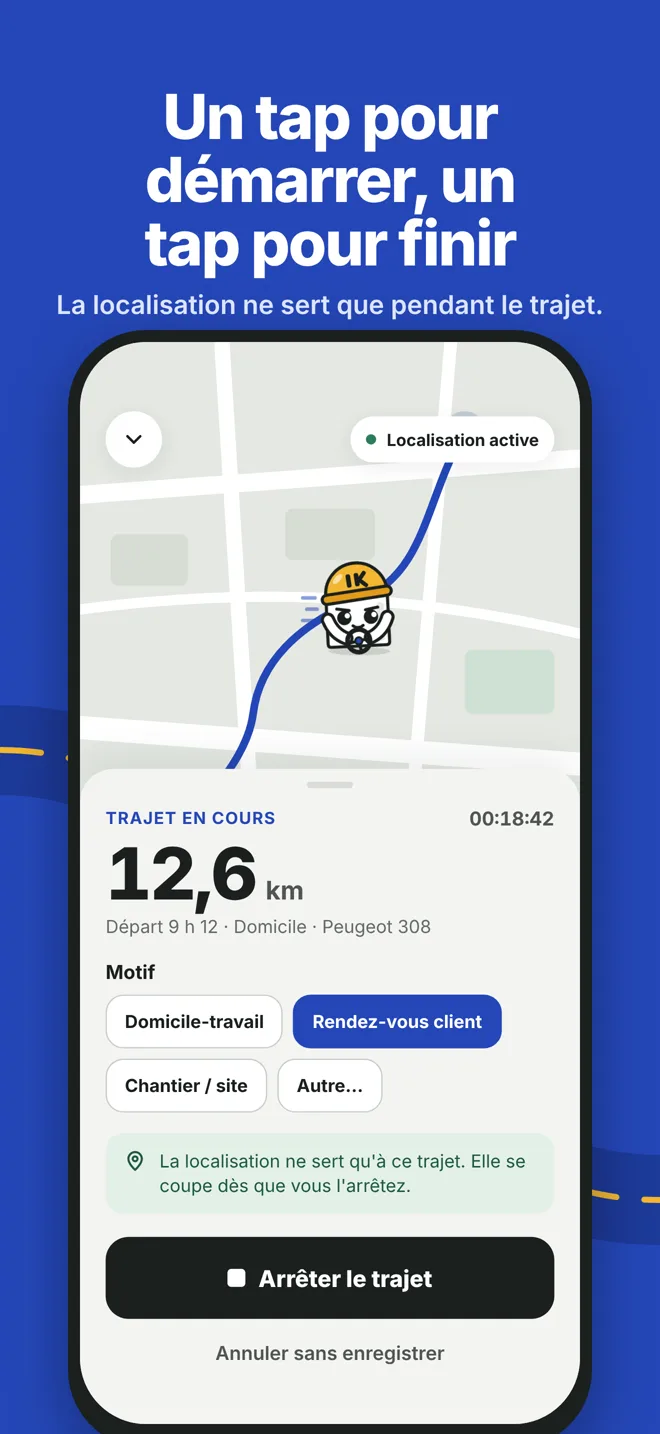
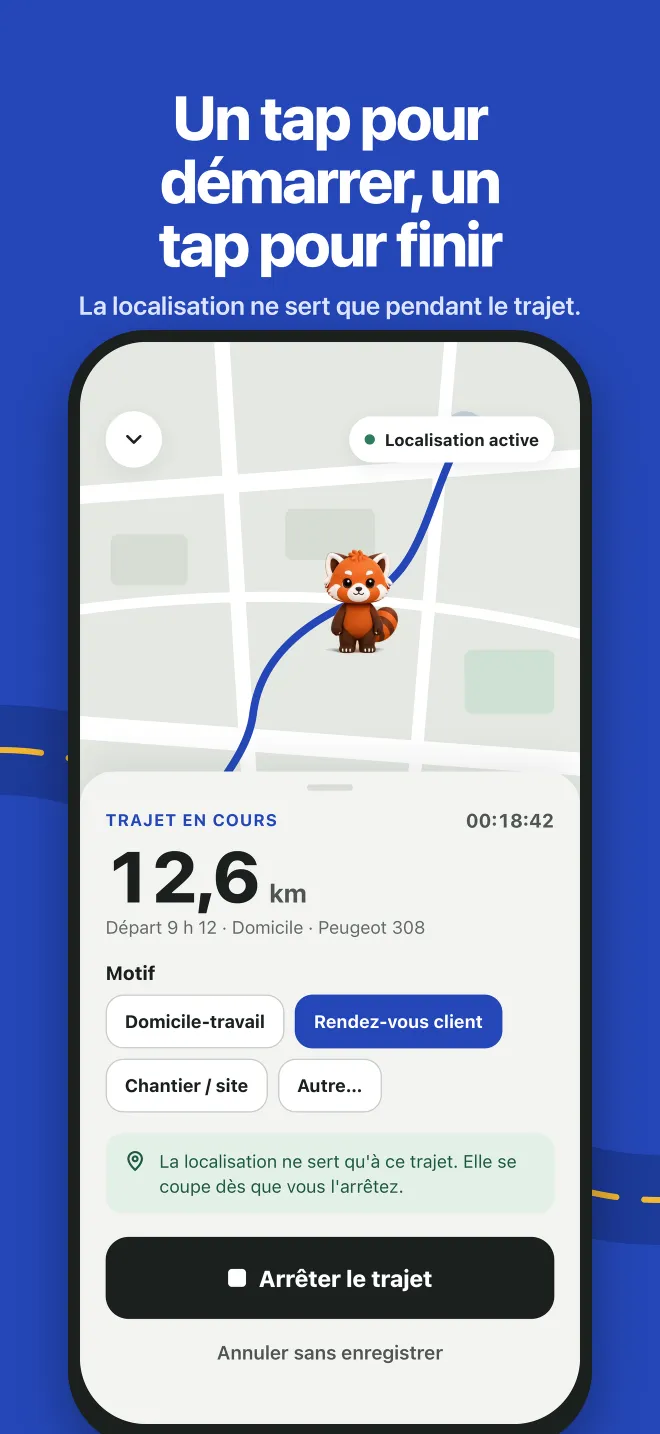
Update the IK screenshots to Kilo the red panda

diff --git a/ik/index.html b/ik/index.html
@@ -41,11 +41,11 @@
 <p class="lead">Un geste pour démarrer, un geste pour arrêter. IK calcule le montant déductible de vos trajets et prépare le PDF pour votre déclaration.</p>
 <div class="app-hero__cta"><a class="btn-appstore" href="https://apps.apple.com/app/id6820927370"><svg width="22" height="22" viewBox="0 0 24 24" fill="none" aria-hidden="true"><path d="M12 3v12m0 0l-5-5m5 5l5-5M5 20h14" stroke="currentColor" stroke-width="1.8" stroke-linecap="round" stroke-linejoin="round"/></svg><span><small>Télécharger dans</small><strong>l’App Store</strong></span></a><span class="app-hero__price">Gratuit au téléchargement · abonnement · pour les salariés aux frais réels et les indépendants en BNC</span></div>
 </div>
-<figure class="device"><img src="/assets/site/img/fr/ik_1-bareme-officiel.webp" alt="Vos trajets pros au barème officiel" width="660" height="1434" fetchpriority="high"></figure>
+<figure class="device"><img src="/assets/site/img/fr/ik_1-bareme-officiel.webp" alt="Indemnités kilométriques : vos trajets pros au barème officiel" width="660" height="1434" fetchpriority="high"></figure>
 </section>
 <section class="sect" style="padding-top:0;overflow:hidden" aria-labelledby="shots-t"><div class="wrap">
 <div class="sect-head" style="margin-bottom:28px"><h2 id="shots-t" class="h3" style="font-size:clamp(28px,3vw,40px)">IK en images</h2><p class="muted" style="margin:0;font-size:15px">Faites défiler les captures de l’App Store</p></div>
-<ul class="shots"><li><img src="/assets/site/img/fr/ik_1-bareme-officiel.webp" alt="Vos trajets pros au barème officiel" width="660" height="1434" loading="lazy"></li><li><img src="/assets/site/img/fr/ik_2-un-tap.webp" alt="Un trajet en un tap" width="660" height="1434" loading="lazy"></li><li><img src="/assets/site/img/fr/ik_3-jusqua-4251.webp" alt="Jusqu’à 4 251 € déductibles (exemple 5 CV, 8 000 km)" width="660" height="1434" loading="lazy"></li><li><img src="/assets/site/img/fr/ik_4-pdf-impots.webp" alt="PDF prêt pour les impôts" width="660" height="1434" loading="lazy"></li><li><img src="/assets/site/img/fr/ik_5-vehicules.webp" alt="Plusieurs véhicules" width="660" height="1434" loading="lazy"></li><li><img src="/assets/site/img/fr/ik_6-alerte-40km.webp" alt="Alerte au-delà de 40 km" width="660" height="1434" loading="lazy"></li></ul>
+<ul class="shots"><li><img src="/assets/site/img/fr/ik_1-bareme-officiel.webp" alt="Indemnités kilométriques : vos trajets pros au barème officiel" width="660" height="1434" loading="lazy"></li><li><img src="/assets/site/img/fr/ik_2-un-tap.webp" alt="Un trajet en un tap" width="660" height="1434" loading="lazy"></li><li><img src="/assets/site/img/fr/ik_3-jusqua-4251.webp" alt="Jusqu’à 4 251 € déductibles (exemple 5 CV, 8 000 km)" width="660" height="1434" loading="lazy"></li><li><img src="/assets/site/img/fr/ik_4-pdf-impots.webp" alt="PDF prêt pour les impôts" width="660" height="1434" loading="lazy"></li><li><img src="/assets/site/img/fr/ik_5-vehicules.webp" alt="Plusieurs véhicules" width="660" height="1434" loading="lazy"></li><li><img src="/assets/site/img/fr/ik_6-alerte-40km.webp" alt="Alerte au-delà de 40 km" width="660" height="1434" loading="lazy"></li></ul>
 </div></section>
 <section id="features" class="sect sect--paper" aria-labelledby="feat-t"><div class="wrap">
 <p class="eyebrow">Fonctionnalités</p>

diff --git a/_build/content_apps.py b/_build/content_apps.py
@@ -160,7 +160,7 @@ APPS = {
      h1='Vos trajets pros, au barème officiel.',
      lead='Un geste pour démarrer, un geste pour arrêter. IK calcule le montant déductible de vos trajets et prépare le PDF pour votre déclaration.',
      price_line='Gratuit au téléchargement · abonnement · pour les salariés aux frais réels et les indépendants en BNC',
-     shot_alts=['Vos trajets pros au barème officiel', 'Un trajet en un tap', 'Jusqu’à 4 251 € déductibles (exemple 5 CV, 8 000 km)', 'PDF prêt pour les impôts', 'Plusieurs véhicules', 'Alerte au-delà de 40 km'],
+     shot_alts=['Indemnités kilométriques : vos trajets pros au barème officiel', 'Un trajet en un tap', 'Jusqu’à 4 251 € déductibles (exemple 5 CV, 8 000 km)', 'PDF prêt pour les impôts', 'Plusieurs véhicules', 'Alerte au-delà de 40 km'],
      feat_title='Vos frais kilométriques, sans tableur.',
      features=[('Suivi GPS d’un geste', 'Démarrez et arrêtez un trajet en un tap. La localisation ne sert que pendant le trajet en cours.'), ('Favoris et saisie rapide', 'Vos trajets habituels en un toucher ; saisie manuelle avec suggestions d’adresses et calcul de distance.'), ('Barème officiel', 'Montant calculé par véhicule et sur le cumul annuel, thermique ou 100 % électrique.'), ('Règle des 40 km', 'Au-delà de 40 km domicile-travail, justifiez la distance ou retenez 40 km.'), ('Export PDF', 'Récapitulatif annuel par véhicule, détail des trajets et formule utilisée.'), ('Export CSV', 'Dates, départs, arrivées, motifs, km parcourus et retenus, pour votre comptable.')],
      hl=('Exemple', 'Jusqu’à 4 251 € de frais déductibles.', 'Exemple affiché par l’app : véhicule thermique de 5 CV, 8 000 km professionnels dans l’année.', [('8 000 km', 'Parcourus dans l’année'), ('× 0,357 + 1 395', 'Tranche 5 001 à 20 000 km'), ('4 251 €', 'Déductibles')]),
